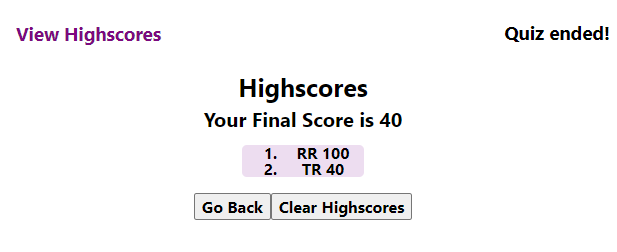
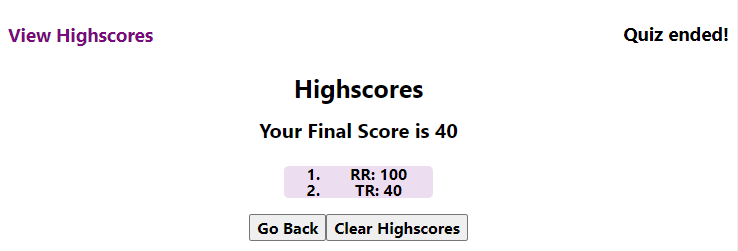
Final touches + Quiz End function

diff --git a/assets/js/script.js b/assets/js/script.js
@@ -9,22 +9,18 @@ var timeX = document.getElementById("time");
 var secondsLeft = 75;
 
 //variable Main Intro Element - Coding Quiz//
-
 var mainEl = document.querySelector(".quiz");
 
 var introEl = document.querySelector(".intro");
 
 //Variable Start Button //
-
 var startButton = document.getElementById("startQuiz");
 
 //variable Questions Element //
-
 var questionsEl = document.querySelector(".questions");
 
 
 //variable Alternatives Element//
-
 var alternativesEl = document.querySelector(".alternatives");
 
 //Alternatives 1,2,3,4 - created under class "alternatives"//
@@ -34,7 +30,6 @@ var alternative3 = document.createElement("li");
 var alternative4 = document.createElement("li");
 
 //Object Questions  - questions, alternatives and correct Answer for each question //
-
 var questions = [
 	{
 		question: "Which of the following are JavaScript Data Types?",
@@ -65,11 +60,9 @@ var questions = [
 
 
 //Message Variable - Correct or Wrong depending on User's selection//
-
 var messageEl = document.getElementById("message");
 
 //quizEnd Element //
-
 var quizEndEl = document.getElementById("quizEnd");
 
 //Message Total Score Element // 
@@ -81,13 +74,11 @@ var inputBox = document.createElement("input");
 inputBox.placeholder = "Please enter your initials";
 var btnSubmit = document.createElement("button");
 
-
 //Variable Score Board - Display User's name and Scores
+var userScoreBoardEl = document.getElementById("userScoreBoard");
 
-var scoreBoard = document.getElementById("scoreBoard");
-
-
-var userScoreBoard = document.getElementById("userScoreBoard");
+//Variable display go back and clear buttons
+var boardButtonsEl = document.getElementById("boardButtons");
 
 //Button "Go Back" to Start the Quiz again 
 var btnGoBack = document.createElement("button");
@@ -95,10 +86,9 @@ var btnGoBack = document.createElement("button");
 //Button Clear HighScores
 var btnClear = document.createElement("button");
 
-
-
 //Variable for the questions index//
 var qCounter = 0;
+
 
 //Function to display Questions//
 function displayQuestion() {
@@ -114,19 +104,23 @@ function displayQuestion() {
 		alternativesEl.appendChild(alternative4);
 
 	} else {
-		quizEndEl.textContent = "All Done!";
-		messageTotalEl.textContent = "Your Final Score is " + totalScore
-		alternativesEl.style.display = "none";
-		questionsEl.style.display = "none";
-		btnSubmit.textContent = "Submit";
-		submitScoreEl.appendChild(inputBox);
-		submitScoreEl.appendChild(btnSubmit);
-		inputBox.addEventListener("click", function () {
-			messageEl.style.display = "none";
-		})
-
+		quizEndfunction()
 	}
 };
+
+//Function to end Quiz//
+
+function quizEndfunction(){
+	quizEndEl.textContent = "All Done!";
+	messageTotalEl.textContent = "Your Final Score is " + totalScore
+	alternativesEl.style.display = "none";
+	questionsEl.style.display = "none";
+	btnSubmit.textContent = "Submit";
+	submitScoreEl.appendChild(inputBox);
+	submitScoreEl.appendChild(btnSubmit);
+	inputBox.addEventListener("click", function () {
+	messageEl.style.display = "none";})
+	};
 
 //Variable for the User's Total Score. If User gets a correct answer equivalents to 20 points//
 var totalScore = 0;
@@ -169,6 +163,7 @@ startButton.addEventListener("click", function () {
 		if (secondsLeft === 0) {
 			clearInterval(timer);
 			timeX.textContent = "Time ended!";
+			quizEndfunction();
 
 			/* sendMessage();*/
 		} else if (qCounter > 4) {
@@ -191,13 +186,13 @@ var highScoreArray = [];
 //	Function Function Display Score //
 
 function displayScore() {
-	userScoreBoard.innerHtml = "";
+	userScoreBoardEl.innerHtml = "";
 	for (var i = 0; i < highScoreArray.length; i++) {
 		var highScoreList = highScoreArray[i];
 		var liScores = document.createElement("li");
 		liScores.textContent = highScoreList;
 		liScores.setAttribute = ("data-index", i)
-		userScoreBoard.appendChild(liScores);
+		userScoreBoardEl.appendChild(liScores);
 	};
 
 };
@@ -224,8 +219,8 @@ function saveScore() {
 btnSubmit.addEventListener("click", function (event) {
 	event.preventDefault();
 	quizEndEl.textContent = "Highscores";
-	scoreBoard.appendChild(btnGoBack);
-	scoreBoard.appendChild(btnClear);
+	boardButtonsEl.appendChild(btnGoBack);
+	boardButtonsEl.appendChild(btnClear);
 	submitScoreEl.style.display = "none";
 	btnGoBack.textContent = "Go Back";
 	btnClear.textContent = "Clear Highscores";
@@ -242,21 +237,6 @@ btnSubmit.addEventListener("click", function (event) {
 
 });
 
-//*HighScore order from high to low*/
-
-/*THINKING HOW TO SORT
-
-function orderedHighScore (){
-	var highScoreTop = localStorage.getItem("highScoreArray");
-	highScoreTop = JSON.parse(highScoreTop);
-	highScoreTop.sort ((a, b)=> b.inputUserName - a.inputUserName);
-
-highScoreArray.push(highScoreTop);
-
-}
-
-*/
-
 
 //call Init function so the name and score can be saved to the Highscores section//
 init();
@@ -270,8 +250,8 @@ viewHighscoresEl.addEventListener("click", function (event) {
 	startButton.style.display = "none";
 	btnGoBack.textContent = "Go Back";
 	btnClear.textContent = "Clear Highscores";
-	scoreBoard.appendChild(btnGoBack);
-	scoreBoard.appendChild(btnClear);
+	boardButtonsEl.appendChild(btnGoBack);
+	boardButtonsEl.appendChild(btnClear);
 	displayScore();
 
 });
@@ -287,8 +267,8 @@ btnGoBack.addEventListener("click", function () {
 btnClear.addEventListener("click", function (event) {
 	event.preventDefault();
 	highScoreArray = [];
-	while (userScoreBoard.firstChild) {
-		userScoreBoard.removeChild(userScoreBoard.firstChild);
+	while (userScoreBoardEl.firstChild) {
+		userScoreBoardEl.removeChild(userScoreBoardEl.firstChild);
 	}
 	localStorage.clear();
 

diff --git a/assets/style/style.css b/assets/style/style.css
@@ -24,6 +24,7 @@ header {
 
 .timeCount {
 	text-align: right;
+	font-style: italic;
 
 }
 
@@ -40,7 +41,7 @@ header {
 }
 
 
-/* QUestions and Alternatives*/
+/* Questions and Alternatives*/
 
 .questions {
 	display: flex;
@@ -78,8 +79,14 @@ header {
 	background-color: var(--light);
 }
 
+#message {
+	font-style: italic;
+}
+
 
 /*End of the Quiz*/
+
+
 
 #quizEnd {
 	font-size: 25px;

diff --git a/index.html b/index.html
@@ -72,7 +72,8 @@
 		<!--Highscores Board-->
 		<ol id="userScoreBoard"></ol>
 
-		<div id="scoreBoard"></div>
+		<!--Contains Go Back and Clear buttons-->
+		<div id="boardButtons"></div>
 
 
 

diff --git a/README.md b/README.md
@@ -44,7 +44,7 @@ var userClick = event.target;
 
 1. Display Question - questions will be displayed until the user gets to the last one or when the time ends.
 
-2. When the quiz is done, than the user is able to see the final Score and input initials or name so the info can be saved:
+2. Function Quiz End: When the quiz is done, than the user is able to see the final Score and input initials or name so the info can be saved:
 
 ![inputName](./assets/screenshots/QuizEnd.png "Input Name")
 
